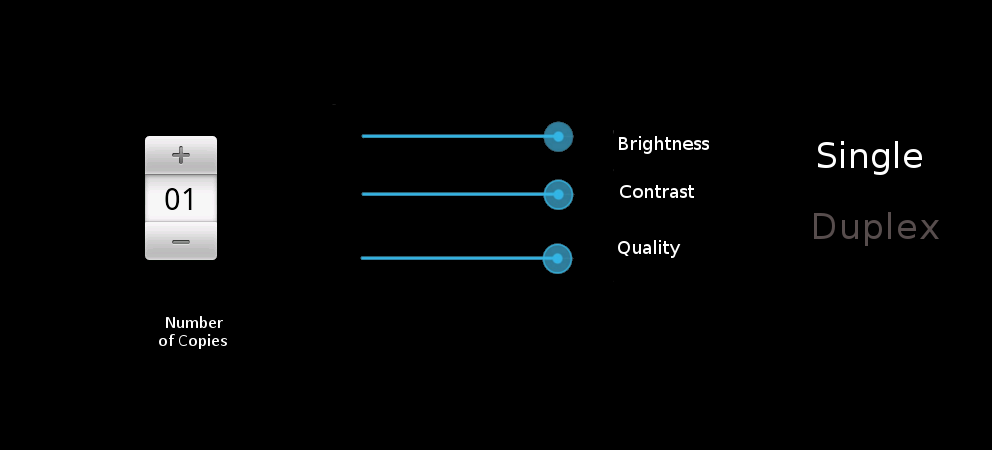
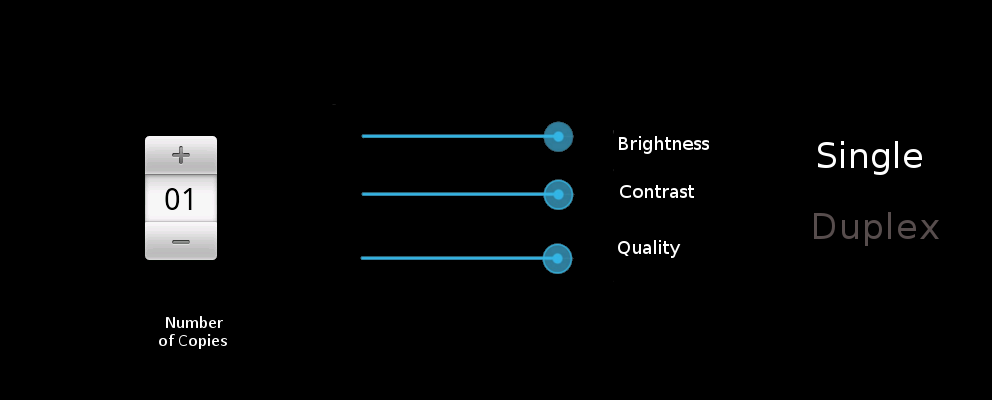
Button

diff --git a/index.html b/index.html
@@ -55,12 +55,14 @@
                 <div class="col-xs-12"><center><h1 style="color:#fff;">COPY</h1></center></div>
             
 			<div class="row">
-					<div class="col-xs-12" style="background-color:#FFFFF;text-align:center;"><a href="#"><img src="img/copy_menu.png" style = "max-width: 75%"></a></div>
+					<div class="col-xs-12" style="background-color:#FFFFF;text-align:center;"><a href="#"><img src="img/copy_menu.png" style = "max-width: 100%"></a></div>
             <div class="row">
 			
-			<div class="col-xs-3"><center><h1></h1></center></div>
-			<div class="col-xs-3"><center><h1></h1></center></div>
-			<div class="col-xs-3"><left><button type="button" id="submit" class="btn btn-default">Submit</button></left></div>
+			<div class="col-xs-4"><center><h1></h1></center></div>
+			<div class="col-xs-4"><center><h1></h1></center></div>
+
+			<div class="col-xs-4"><button type="button" id="submit" class="btn btn-primary btn-lg" style="float: right; margin-right: 100px"><div></div>Submit</button></div>
+
 			</div>
 		  </div>
         </div>
